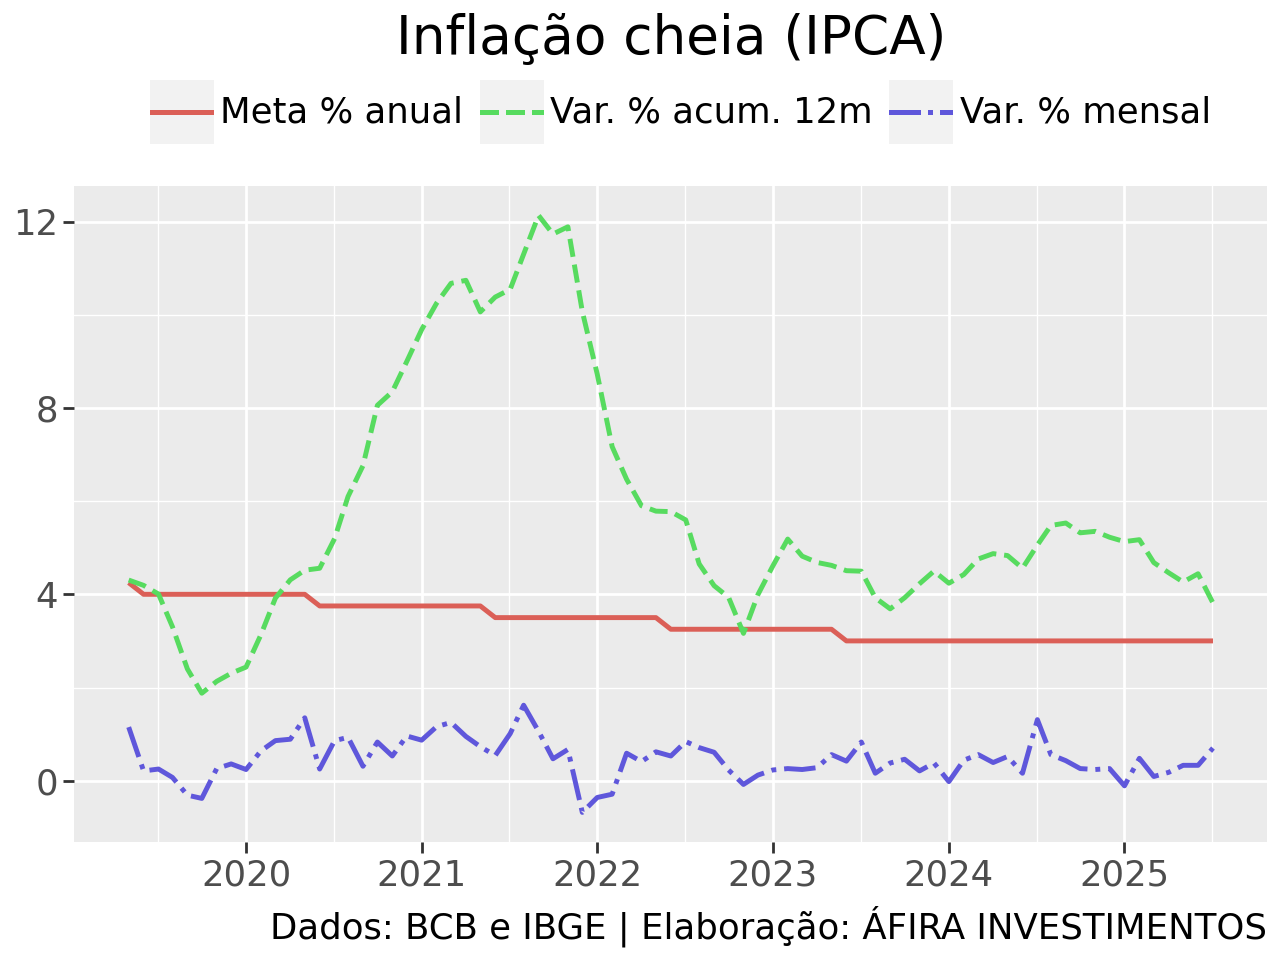
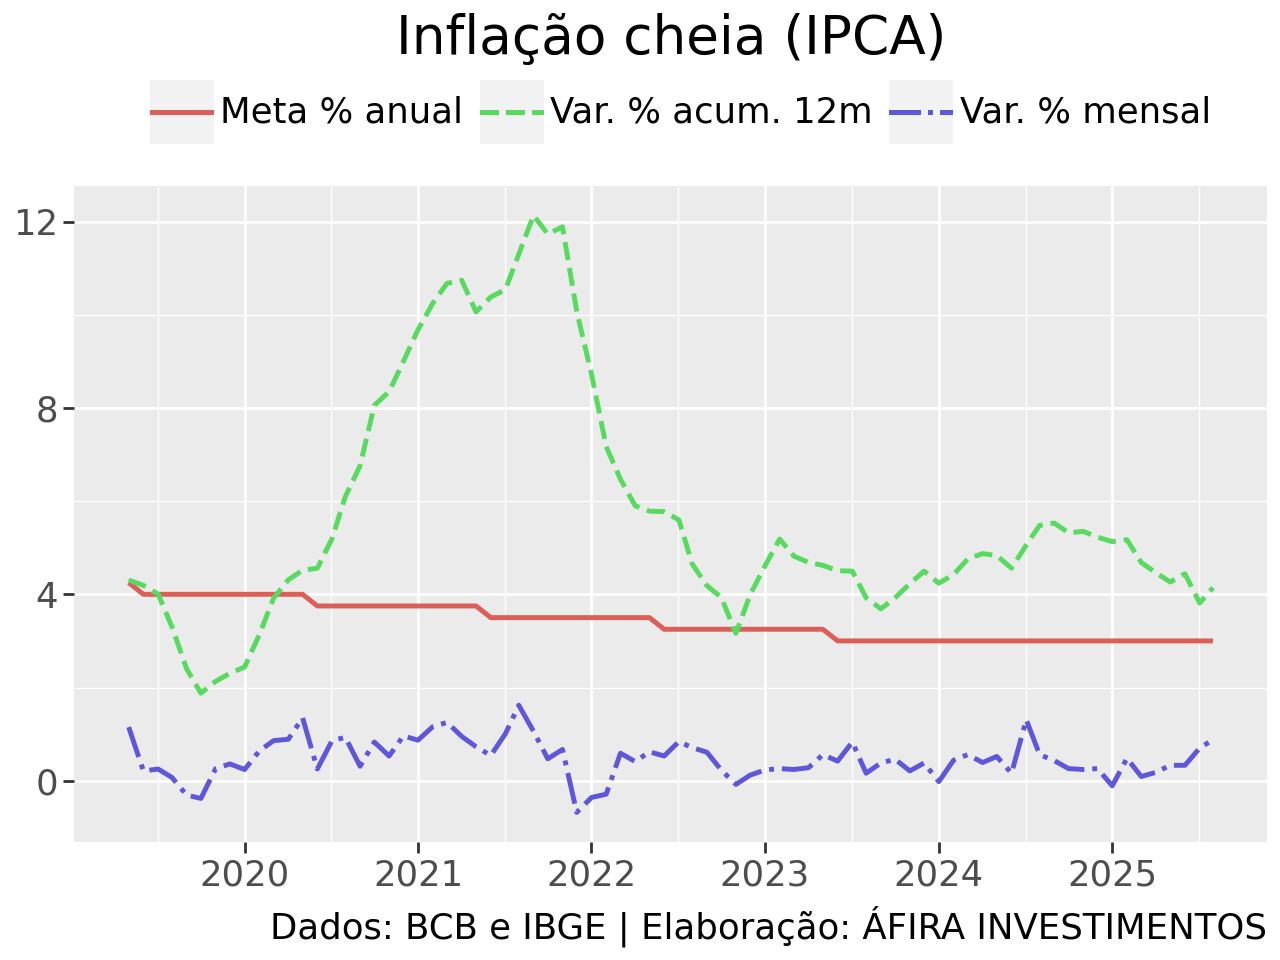
Atualização de relatório automatizada

diff --git a/projeto1/projeto1.html b/projeto1/projeto1.html
@@ -63,7 +63,7 @@ ul.task-list li input[type="checkbox"] {
     <div>
     <div class="quarto-title-meta-heading">Data de Publicação</div>
     <div class="quarto-title-meta-contents">
-      <p class="date">10 de abril de 2026</p>
+      <p class="date">11 de abril de 2026</p>
     </div>
   </div>
   